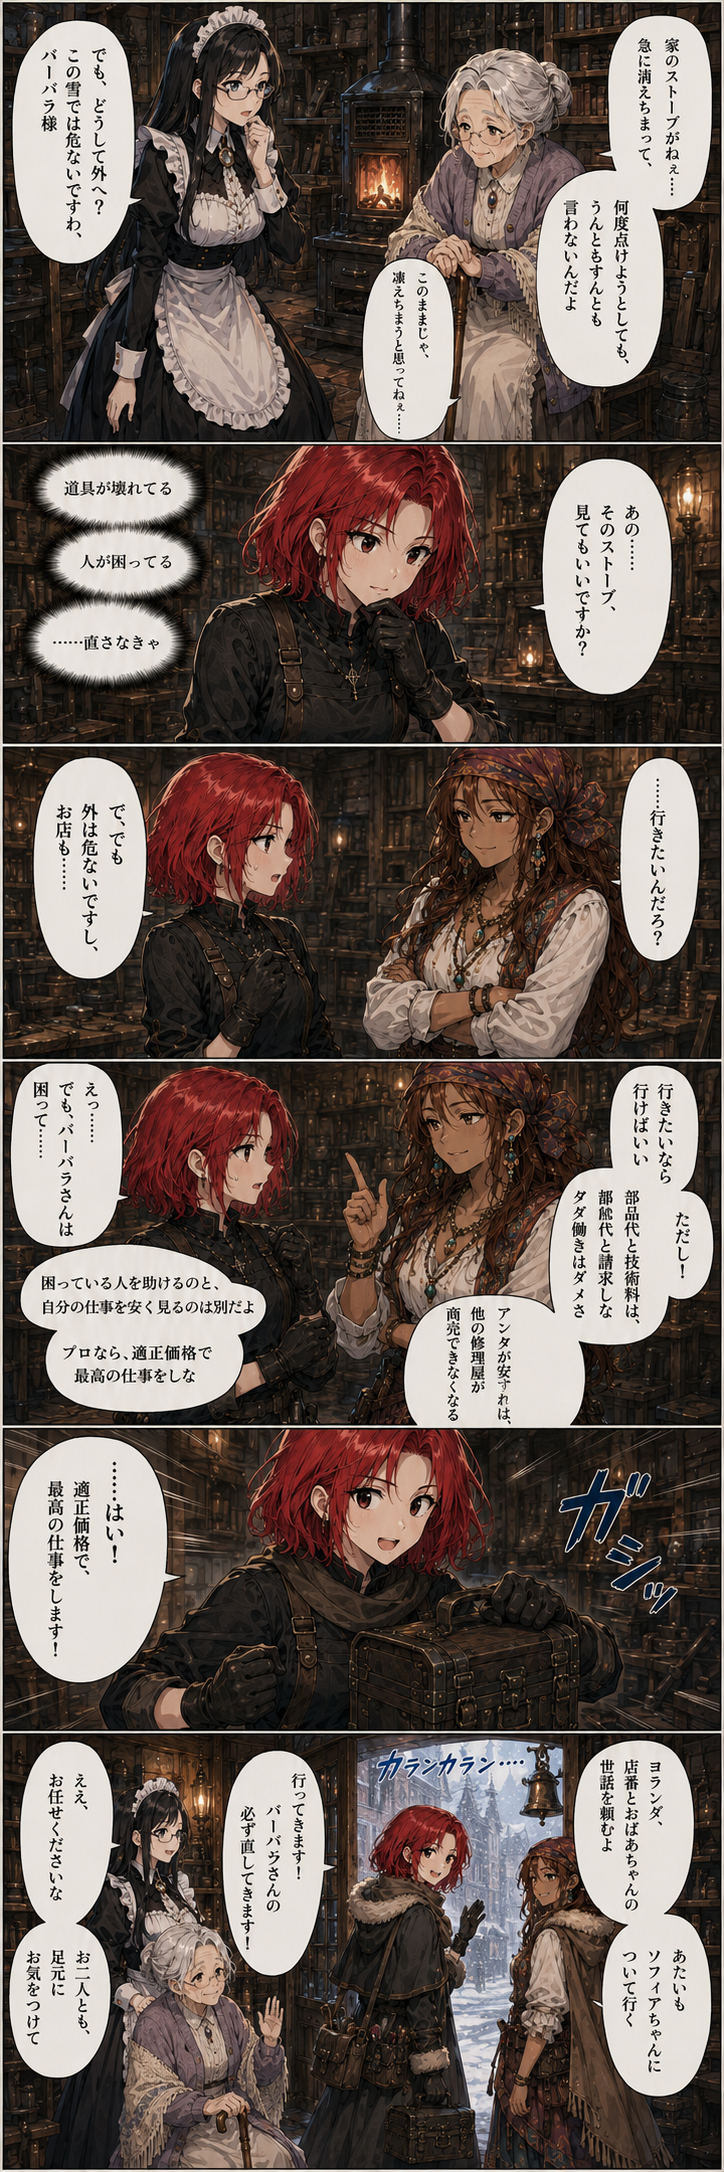
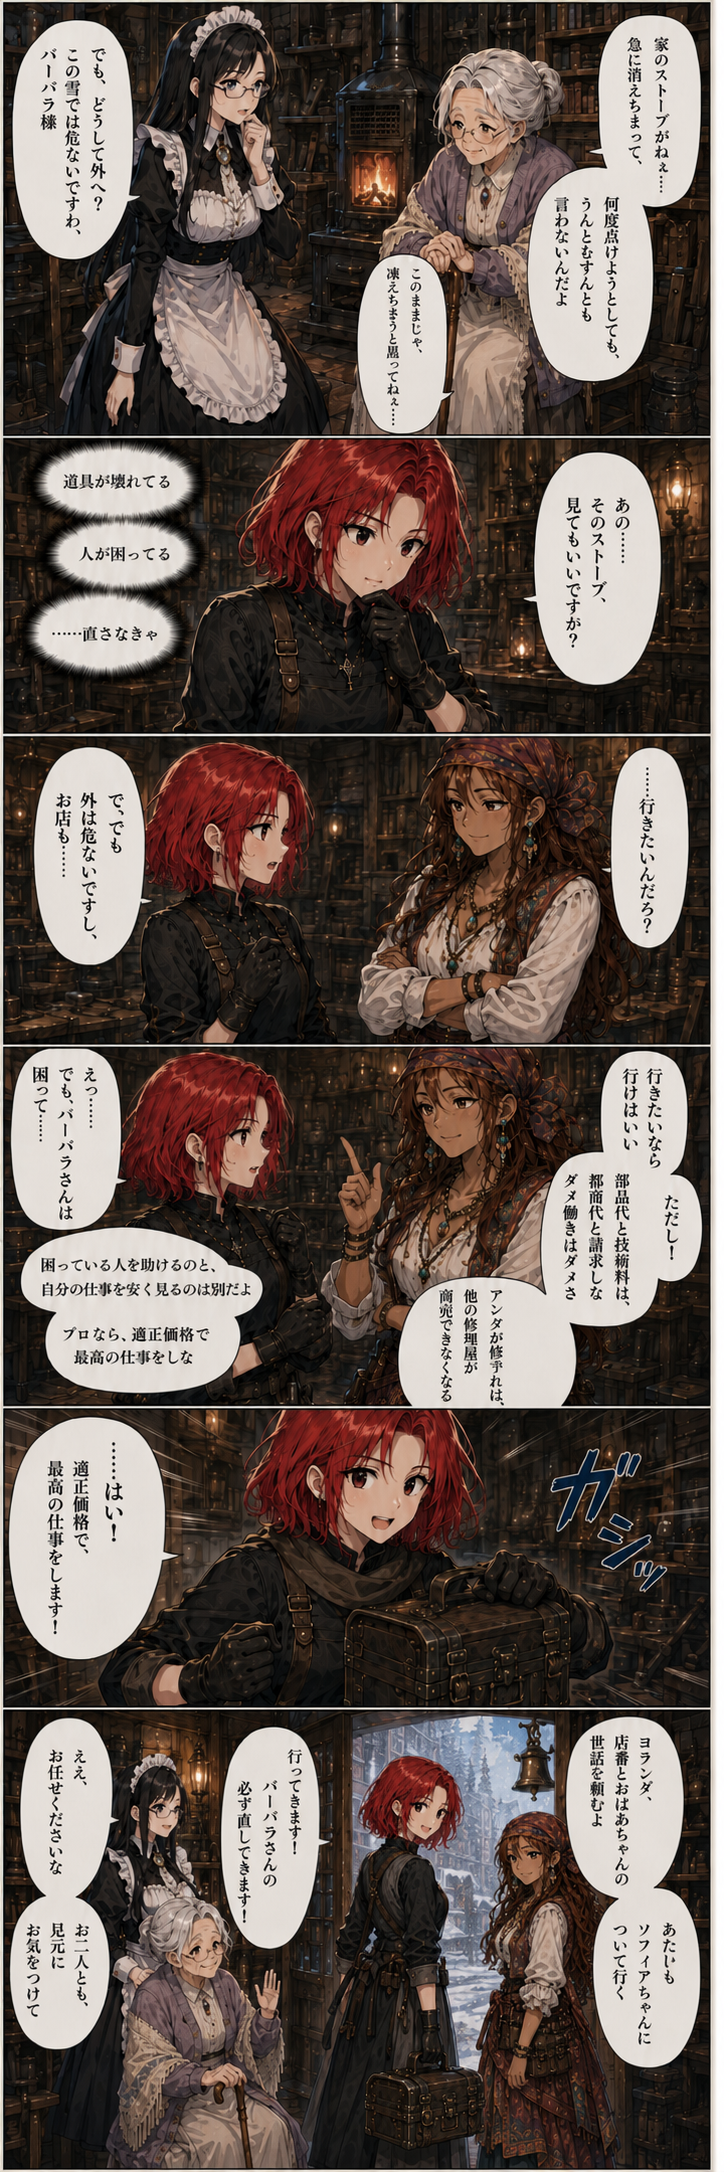
init

diff --git a/20．魔道具修理は副業です/index.html b/20．魔道具修理は副業です/index.html
@@ -1,0 +1,39 @@
+<!doctype html>
+<html lang="ja">
+  <head>
+    <meta charset="utf-8">
+    <meta name="viewport" content="width=device-width, initial-scale=1">
+    <title>魔道具修理は副業です | 辺境の杖職人が、自分の作る魔法杖は世界最高だと気付くまで</title>
+    <link rel="stylesheet" href="../style.css">
+  </head>
+  <body class="reader-page">
+    <main>
+      <section class="reader" id="episode-18" aria-labelledby="episode-18-title">
+        <div class="reader-head">
+          <div>
+            <p class="episode-number">第18話</p>
+            <h1 class="reader-title" id="episode-18-title">魔道具修理は副業です</h1>
+          </div>
+          <p class="reader-meta">18．魔道具修理は副業です / 全6枚</p>
+        </div>
+
+        <div class="manga-pages">
+          <img class="manga-page" src="./01.png" alt="魔道具修理は副業です 1ページ目" width="724" height="2172" loading="eager" decoding="async">
+          <img class="manga-page" src="./02.png" alt="魔道具修理は副業です 2ページ目" width="724" height="2172" loading="lazy" decoding="async">
+          <img class="manga-page" src="./03.png" alt="魔道具修理は副業です 3ページ目" width="724" height="2172" loading="lazy" decoding="async">
+          <img class="manga-page" src="./04.png" alt="魔道具修理は副業です 4ページ目" width="724" height="2172" loading="lazy" decoding="async">
+          <img class="manga-page" src="./05.png" alt="魔道具修理は副業です 5ページ目" width="724" height="2172" loading="lazy" decoding="async">
+          <img class="manga-page" src="./06.png" alt="魔道具修理は副業です 5ページ目" width="724" height="2172" loading="lazy" decoding="async">
+        </div>
+
+        <nav class="reader-nav" aria-label="読書ナビゲーション">
+          <div class="reader-nav-inner">
+            <a href="../19．大雪の朝/index.html">前の話</a>
+            <span>第19話 / 全6枚</span>
+            <a href="../index.html#contents">目次</a>
+          </div>
+        </nav>
+      </section>
+    </main>
+  </body>
+</html>

diff --git a/19．大雪の朝/index.html b/19．大雪の朝/index.html
@@ -14,7 +14,7 @@
             <p class="episode-number">第18話</p>
             <h1 class="reader-title" id="episode-18-title">大雪の朝</h1>
           </div>
-          <p class="reader-meta">18．大雪の朝 / 全6枚</p>
+          <p class="reader-meta">18．大雪の朝 / 全5枚</p>
         </div>
 
         <div class="manga-pages">
@@ -29,7 +29,7 @@
           <div class="reader-nav-inner">
             <a href="../18．吹雪く夜の再会/index.html">前の話</a>
             <span>第19話 / 全5枚</span>
-            <a href="../index.html#contents">目次</a>
+            <a href="../20．魔道具修理は副業です/index.html">目次</a>
           </div>
         </nav>
       </section>

diff --git a/index.html b/index.html
@@ -195,6 +195,15 @@
               </span>
             </a>
           </li>
+          <li>
+            <a class="episode-link" href="./20．魔道具修理は副業です/index.html">
+              <span class="episode-body">
+                <span class="episode-number">第20話</span>
+                <span class="episode-title">魔道具修理は副業です</span>
+                <span class="episode-meta">縦読み漫画 / 全6枚</span>
+              </span>
+            </a>
+          </li>
         </ol>
       </section>
     </main>
